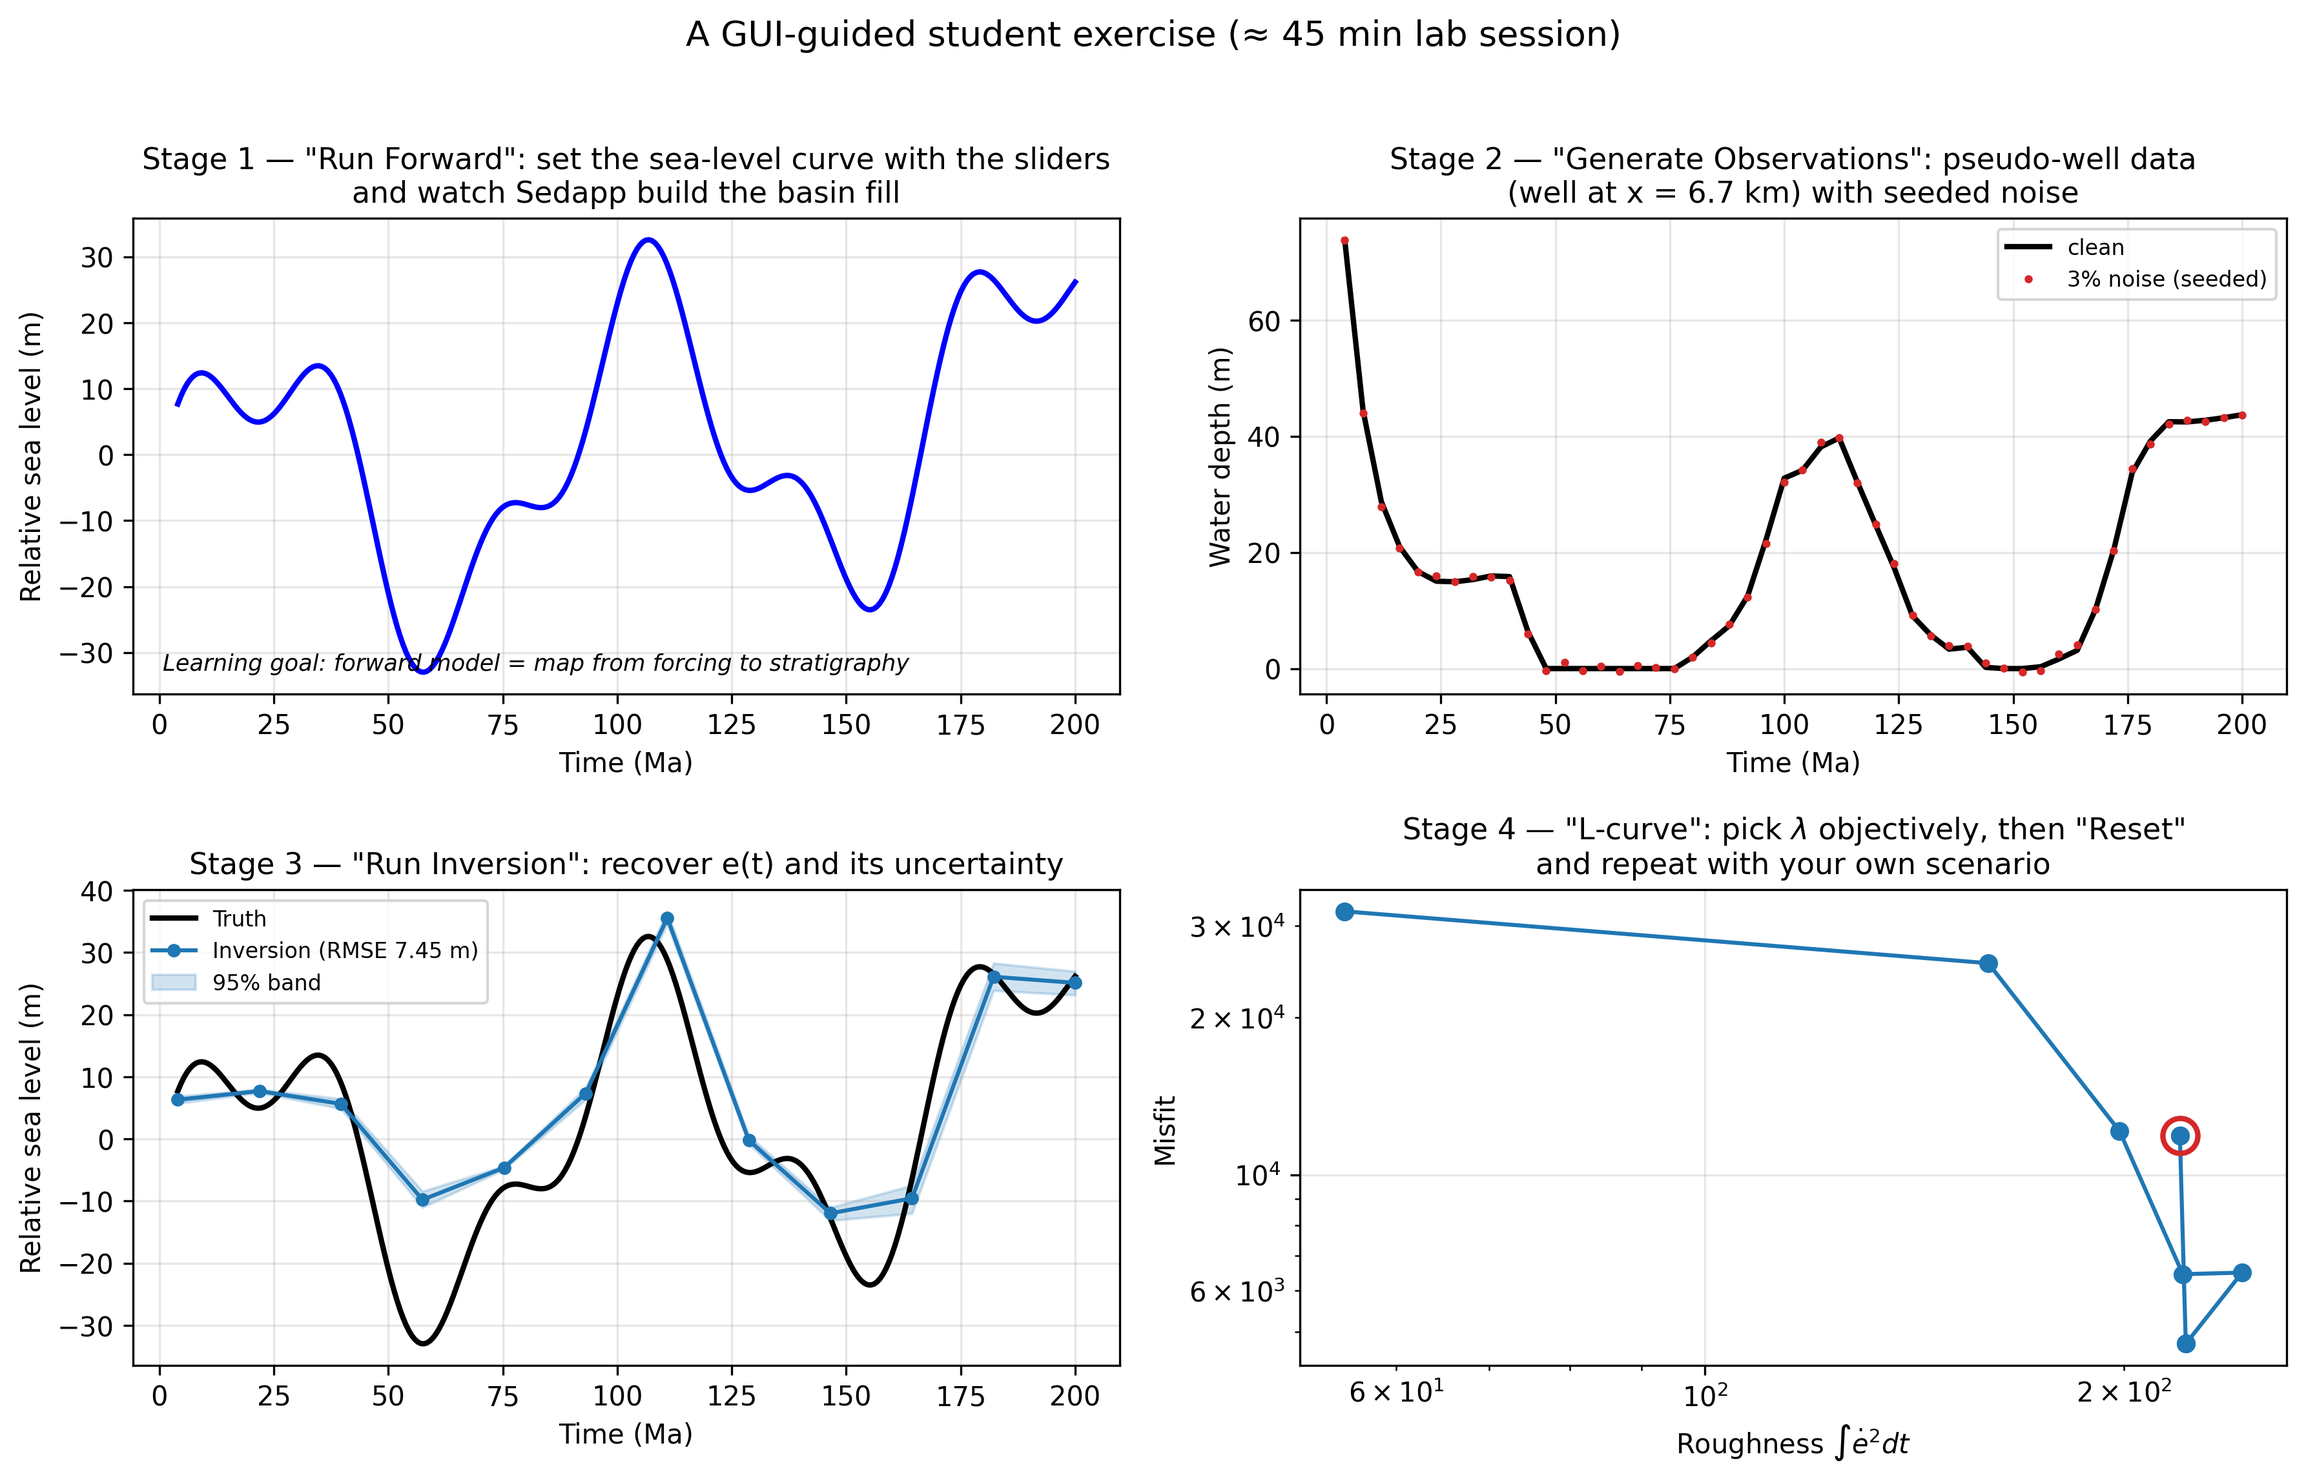
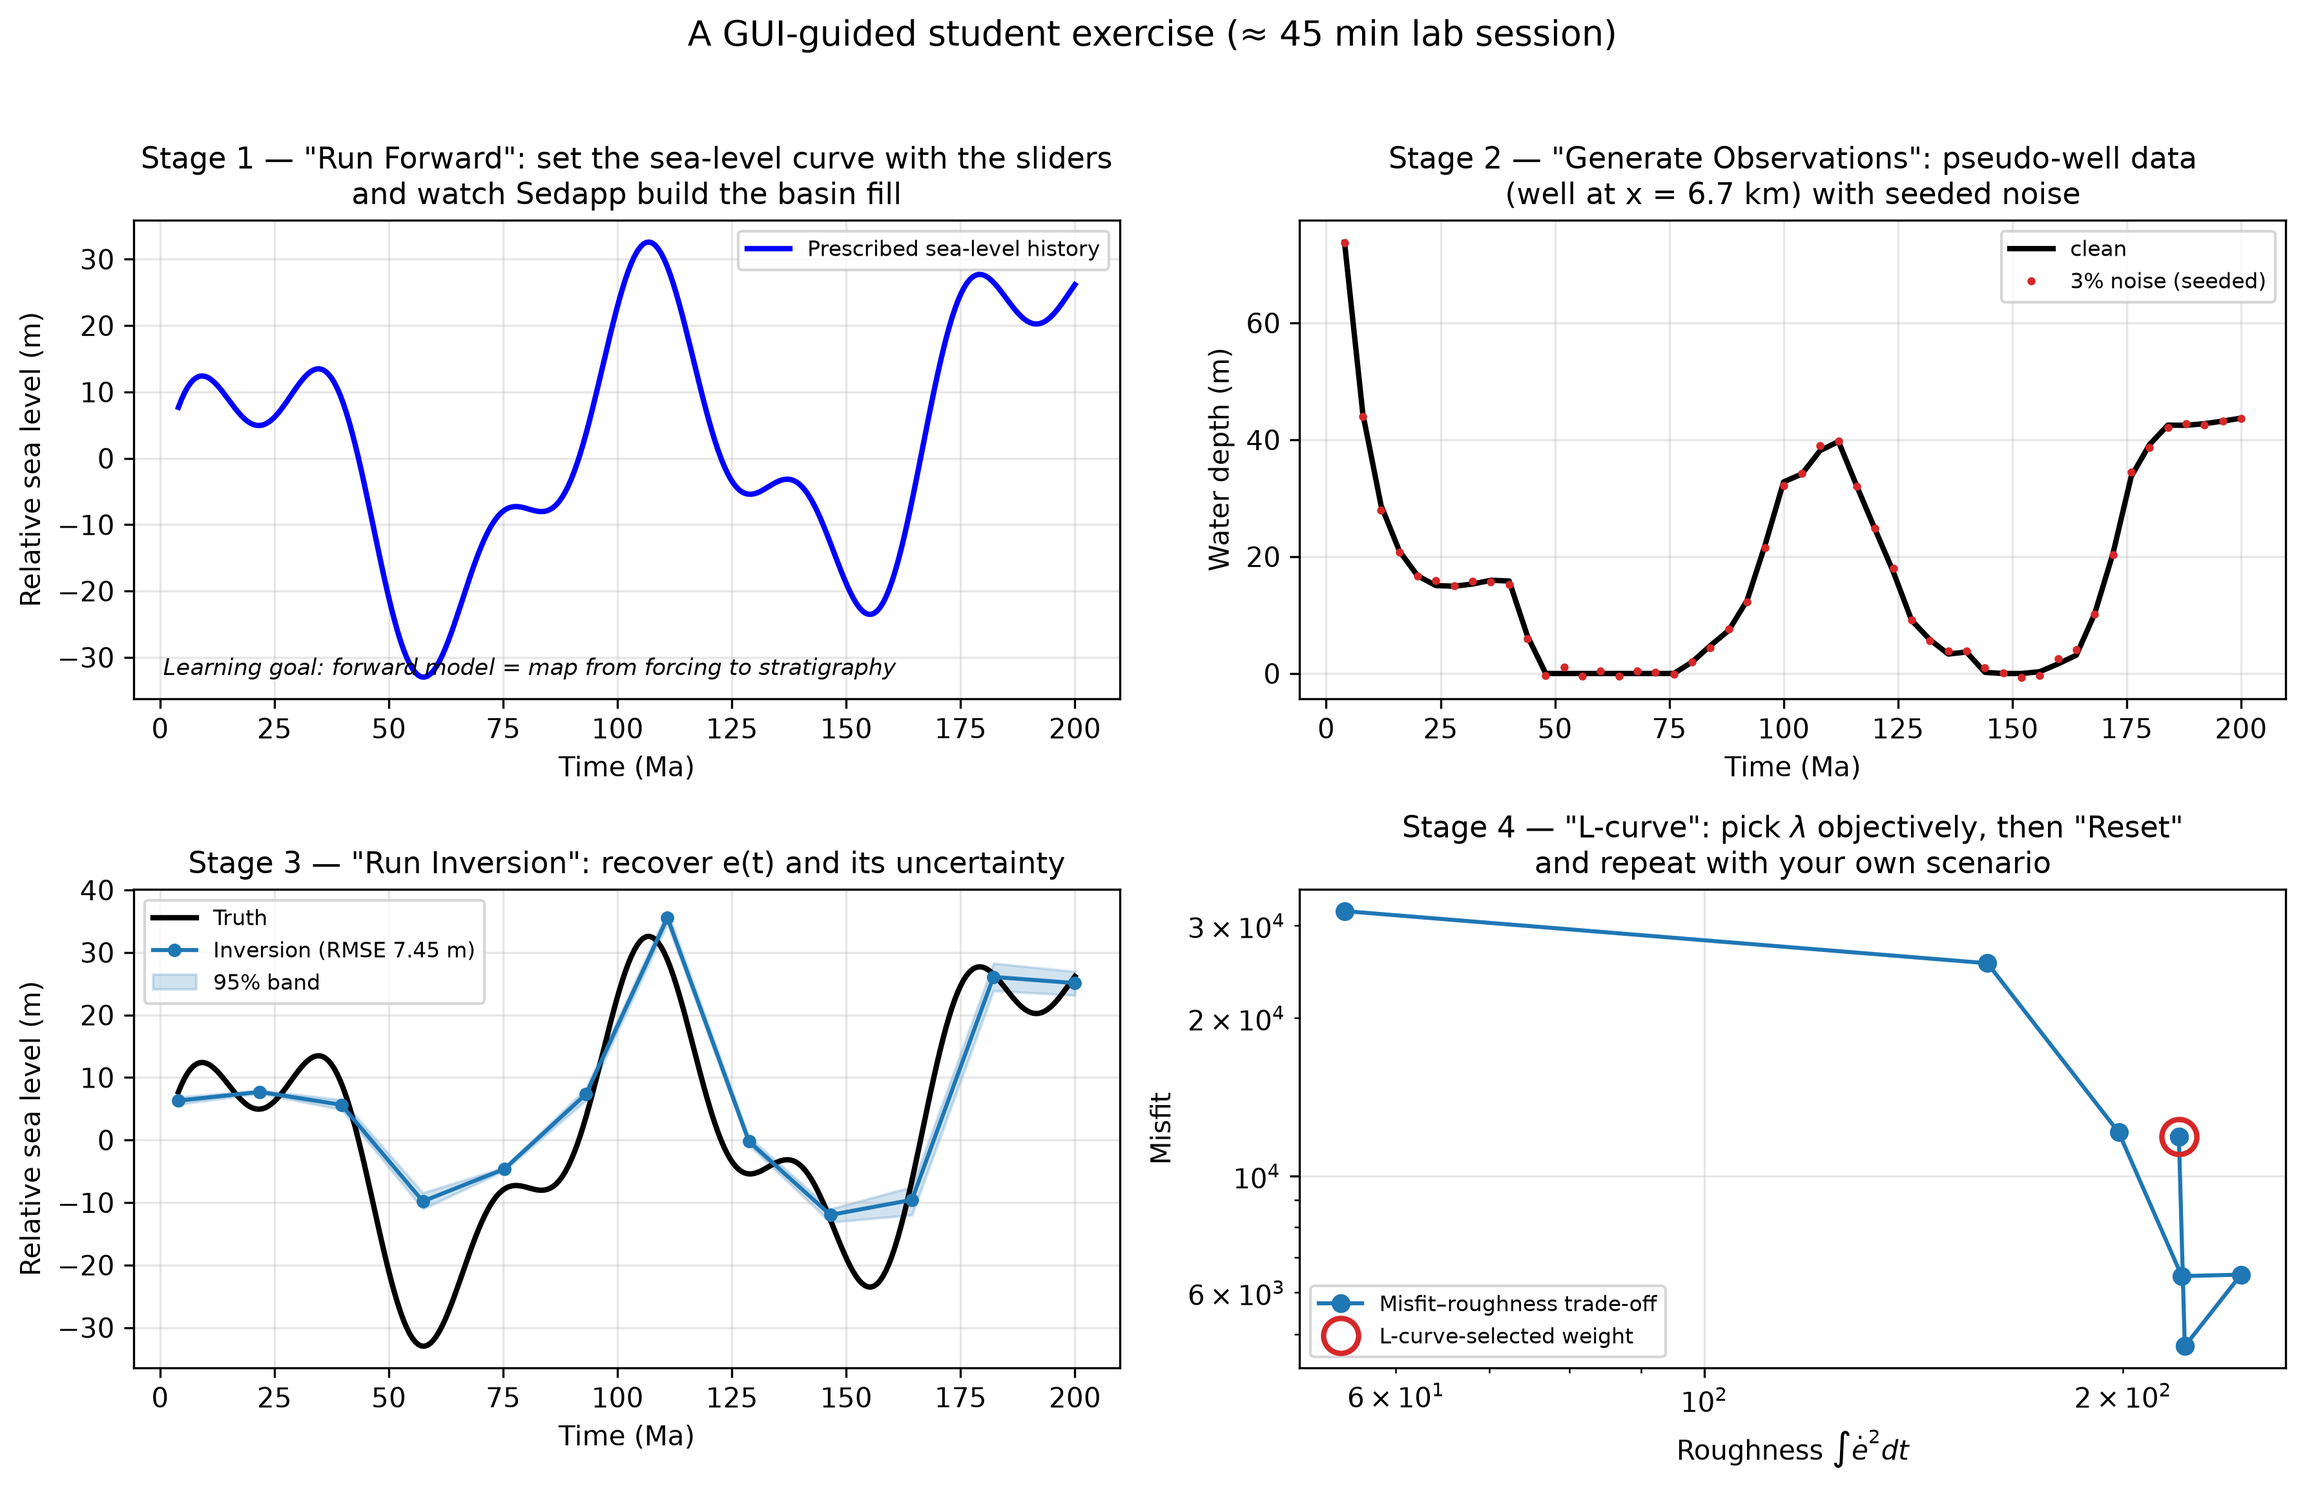
Apply approved editorial figure formatting and legend updates

diff --git a/zonghe.py b/zonghe.py
@@ -1111,6 +1111,8 @@ def fig4_variational(R):
     """J landscape over two knot values with the Gauss-Newton path overlaid,
     plus the misfit-vs-regularisation trade-off measured from the lambda
     sweep."""
+    from matplotlib.ticker import FuncFormatter
+
     jl = R['jlandscape']
     GI, GJ = np.meshgrid(jl['grid_i'], jl['grid_j'], indexing='ij')
     it = R['iterates']
@@ -1122,7 +1124,9 @@ def fig4_variational(R):
     cs = ax.contourf(GI, GJ, jl['J'], levels=lv, cmap='viridis')
     ax.contour(GI, GJ, jl['J'], levels=lv[::4], colors='w', linewidths=0.4,
                alpha=0.6)
-    plt.colorbar(cs, ax=ax, label='Objective $J$')
+    plt.colorbar(cs, ax=ax, label='Objective $J$',
+                 format=FuncFormatter(lambda value, pos:
+                     f'{value:,.0f}' if abs(value) >= 10000 else f'{value:.0f}'))
     ik, jk = jl['i_knot'], jl['j_knot']
     ax.plot(it[:, ik], it[:, jk], 'o-', color='tab:red', ms=4, lw=1.5,
             label='Gauss-Newton path', zorder=5)
@@ -1158,6 +1162,8 @@ def fig4_variational(R):
 def fig5_iterations(R):
     """Iterations 0, 2, 5, 10, final: sea-level curve evolution with a
     J-decrease inset — what a student watches converge in the GUI."""
+    from matplotlib.ticker import FuncFormatter, NullFormatter
+
     it = R['iterates']
     hist = R['iter_hist']
     calls = hist[:, 0] - hist[0, 0] + 1   # forward calls spent in this inversion
@@ -1172,15 +1178,23 @@ def fig5_iterations(R):
                 label=f'iteration {ip}')
         ax.set_title(f'iteration {ip}', fontsize=10)
         ax.set_xlabel('Time (Ma)')
+        ax.yaxis.set_major_formatter(FuncFormatter(
+            lambda value, pos: f'{value:g}'.replace('-', '−')))
         if ax is axs[0]:
             ax.set_ylabel('Relative sea level (m)')
         # J-decrease inset
         axin = ax.inset_axes([0.52, 0.55, 0.44, 0.40])
         axin.semilogy(calls, hist[:, 1], 'o-', ms=2.5, lw=1,
                       color='tab:blue')
-        axin.axvline(calls[min(ip, len(hist) - 1)], color='tab:red', lw=1)
+        red_line = axin.axvline(calls[min(ip, len(hist) - 1)], color='tab:red', lw=1)
+        if ax is axs[0]:
+            fig.legend(handles=[red_line],
+                       labels=['Cumulative forward calls at the displayed iteration'],
+                       loc='upper center', bbox_to_anchor=(0.5, 0.88),
+                       fontsize=8.5, frameon=False)
         axin.set_title('$J$ vs fwd calls', fontsize=6.5)
         axin.tick_params(labelsize=6)
+        axin.yaxis.set_minor_formatter(NullFormatter())
         axin.grid(alpha=0.3)
     axs[0].legend(fontsize=8, loc='upper right')
     fig.suptitle('Inversion step by step: the sea-level curve converges while '
@@ -1242,58 +1256,87 @@ def fig6_noise(R):
 
 # ── fig7: effect of lambda + L-curve ────────────────────────────────────────
 def fig7_lambda(R):
-    """Under- and over-regularised examples plus the L-curve used to pick
-    lambda objectively."""
+    """Plot the unchanged lambda sweep with readable labels and legends."""
+    from matplotlib.ticker import FuncFormatter, LogFormatterSciNotation
+
+    def weight(v):
+        if v and abs(v) < 0.001:
+            n = int(np.floor(np.log10(abs(v))))
+            return rf'$\mathdefault{{{v / 10.0**n:g}\times10^{{{n}}}}}$'
+        return f'{v:g}'
+
     lr = R['lam_results']
     lam = R['best_lam']
     kt = knot_times()
     td, ed = dense_truth()
-    fig, axs = plt.subplots(1, 3, figsize=(13.5, 4.0))
-
+    fig, axs = plt.subplots(1, 3, figsize=(13.5, 5.4))
     ax = axs[0]
     xs = np.array([roughness(lr[l]['e']) for l in LAMBDAS])
     ys = np.array([lr[l]['misfit'] for l in LAMBDAS])
-    ax.loglog(xs, ys, 'o-', color='tab:blue')
+    ax.loglog(xs, ys, 'o-', color='tab:blue',
+              label=r'$\lambda$ samples (line joins dots)')
+    positions = {1e-5: (.62, .68), 1e-4: (.87, .78), .001: (.65, .045),
+                 .01: (.87, .14), .1: (.89, .34), 1: (.61, .27), 10: (.55, .56)}
     for l, x, y in zip(LAMBDAS, xs, ys):
-        off = {0.1: (8, -2), 0.01: (8, 9), 0.001: (12, -9)}.get(l, (6, 5))
-        ax.annotate(f'{l:g}', (x, y), textcoords='offset points', xytext=off,
-                    fontsize=8)
+        if l in positions:
+            ax.annotate(weight(l), (x, y), xytext=positions[l],
+                        textcoords='axes fraction', ha='center', va='center',
+                        fontsize=8, arrowprops=dict(arrowstyle='-', color='0.45',
+                        lw=.65, shrinkA=3, shrinkB=5))
+        else:
+            ax.annotate(weight(l), (x, y), xytext=(7, -12) if l == 1000 else (6, 5),
+                        textcoords='offset points', fontsize=8)
     iB = LAMBDAS.index(lam)
-    ax.plot(xs[iB], ys[iB], 'o', ms=13, mfc='none', mec='tab:red', mew=2)
+    ax.plot(xs[iB], ys[iB], 'o', ms=13, mfc='none', mec='tab:red', mew=2,
+            label='L-curve choice (red circle)')
     ax.set_xlabel(r'Roughness $\int \dot e^2 dt$  (m$^2$/Ma)')
     ax.set_ylabel(r'Misfit $\frac{1}{2}\|(F-d)/\sigma\|^2$')
-    ax.set_title(f'(a) L-curve — knee at $\\lambda$={lam:g}')
+    ax.set_title('(a) L-curve — knee at ' + r'$\lambda$=' + weight(lam))
+    ax.legend(loc='upper center', bbox_to_anchor=(.5, -.23), fontsize=7.7,
+              frameon=False)
 
     ax = axs[1]
-    ax.plot(td, ed, 'k-', lw=2.2, label='Truth')
+    ax.plot(td, ed, 'k-', lw=2.2, label='Truth (black line)')
     iK = LAMBDAS.index(lam)
     picks = []
     if iK > 0:
         picks.append((LAMBDAS[max(0, iK - 1)], 'under-regularised'))
-    picks.append((lam, 'L-curve pick'))
-    picks.append((LAMBDAS[-1], 'over-regularised'))
+    picks.extend([(lam, 'L-curve pick'), (LAMBDAS[-1], 'over-regularised')])
     for (l, lab), c in zip(picks, ['tab:red', 'tab:blue', 'tab:green'][-len(picks):]):
-        ax.plot(kt, lr[l]['e'], 'o-', color=c, ms=4, lw=1.6,
-                label=f'{lab} $\\lambda$={l:g} (RMSE {lr[l]["rmse"]:.1f} m)')
+        label = ('_nolegend_' if lab == 'under-regularised' else
+                 lab + r' $\lambda$=' + weight(l) + f' (RMSE {lr[l]["rmse"]:.1f} m)')
+        ax.plot(kt, lr[l]['e'], 'o-', color=c, ms=4, lw=1.6, label=label)
     ax.set_xlabel('Time (Ma)')
     ax.set_ylabel('Relative sea level (m)')
+    ax.yaxis.set_major_formatter(FuncFormatter(lambda v, pos: f'{v:g}'.replace('-', '−')))
     ax.set_title('(b) Under / optimal / over-regularised recoveries')
-    ax.legend(fontsize=8)
+    ax.legend(loc='upper center', bbox_to_anchor=(.5, -.23), fontsize=7.7,
+              frameon=False)
+    ax.text(.5, -.57, 'Coloured dots: control knots; lines: interpolated histories',
+            transform=ax.transAxes, ha='center', va='top', fontsize=7.4)
 
     ax = axs[2]
-    rmses = [lr[l]['rmse'] for l in LAMBDAS]
-    ax.semilogx(LAMBDAS, rmses, 'o-', color='tab:purple', lw=1.8)
-    ax.axvline(lam, color='tab:red', ls='--', lw=1.2)
+    ax.semilogx(LAMBDAS, [lr[l]['rmse'] for l in LAMBDAS], 'o-',
+                color='tab:purple', lw=1.8,
+                label=r'RMSE at sampled $\lambda$ (line joins dots)')
+    ax.axvline(lam, color='tab:red', ls='--', lw=1.2,
+               label=r'L-curve choice $\lambda$=' + weight(lam))
     ax.axvline(R['lam_minrmse'], color='tab:green', ls=':', lw=1.2,
-               label=f'min-RMSE $\\lambda$={R["lam_minrmse"]:g} (unknowable '
-               'in practice)')
-    ax.set_xlabel('$\\lambda$')
+               label=r'min-RMSE $\lambda$=' + weight(R['lam_minrmse']) +
+                     '\n(unknowable in practice)')
+    ax.set_xlabel(r'$\lambda$')
     ax.set_ylabel('Sea-level RMSE (m)')
-    ax.set_title('(c) Recovery error vs $\\lambda$')
-    ax.legend(fontsize=8)
+    ax.set_title(r'(c) Recovery error vs $\lambda$')
+    ax.legend(loc='upper center', bbox_to_anchor=(.5, -.23), fontsize=7.7,
+              frameon=False)
+    for ax in (axs[0], axs[2]):
+        ax.xaxis.set_major_formatter(LogFormatterSciNotation())
+        ax.xaxis.set_minor_formatter(LogFormatterSciNotation())
+    axs[0].yaxis.set_major_formatter(LogFormatterSciNotation())
+    axs[0].yaxis.set_minor_formatter(LogFormatterSciNotation())
     fig.suptitle('Choosing the regularisation weight: the L-curve criterion',
                  fontsize=12.5)
-    fig.tight_layout(rect=[0, 0, 1, 0.93])
+    fig.subplots_adjust(left=.07, right=.99, bottom=.34, top=.82, wspace=.40)
     savefig(fig, 'fig7_lambda_lcurve.png')
 
 
@@ -1316,7 +1359,8 @@ def fig8_tikhonov_vs_tv(R):
     ax.plot(kt, st['e_tv'], 's-', color='tab:orange', ms=4, lw=1.6,
             label=f'TV / IRLS (RMSE {st["rmse_tv"]:.2f} m, '
             f'r={st["r_tv"]:.3f})')
-    ax.axvline(T1 / 2, color='grey', ls=':', lw=1)
+    ax.axvline(T1 / 2, color='grey', ls=':', lw=1,
+               label=f'Sea-level step at {T1 / 2:g} Ma')
     ax.set_xlabel('Time (Ma)')
     ax.set_ylabel('Relative sea level (m)')
     ax.set_title('(a) Recovering an abrupt step from only 2 pseudo-wells\n'
@@ -1419,7 +1463,8 @@ def fig10_exercise(R):
     fig, axs = plt.subplots(2, 2, figsize=(12.0, 7.8))
 
     ax = axs[0, 0]
-    ax.plot(td, ed, 'b-', lw=2)
+    ax.plot(td, ed, 'b-', lw=2, label='Prescribed sea-level history')
+    ax.legend(fontsize=8, loc='upper right')
     ax.set_xlabel('Time (Ma)')
     ax.set_ylabel('Relative sea level (m)')
     ax.set_title('Stage 1 — "Run Forward": set the sea-level curve with the '
@@ -1460,9 +1505,12 @@ def fig10_exercise(R):
     lr = R['lam_results']
     xs = np.array([roughness(lr[l]['e']) for l in LAMBDAS])
     ys = np.array([lr[l]['misfit'] for l in LAMBDAS])
-    ax.loglog(xs, ys, 'o-', color='tab:blue')
+    ax.loglog(xs, ys, 'o-', color='tab:blue',
+              label='Misfit–roughness trade-off')
     iB = LAMBDAS.index(R['best_lam'])
-    ax.plot(xs[iB], ys[iB], 'o', ms=13, mfc='none', mec='tab:red', mew=2)
+    ax.plot(xs[iB], ys[iB], 'o', ms=13, mfc='none', mec='tab:red', mew=2,
+            label='L-curve-selected weight')
+    ax.legend(fontsize=8, loc='lower left')
     ax.set_xlabel(r'Roughness $\int \dot e^2 dt$')
     ax.set_ylabel('Misfit')
     ax.set_title('Stage 4 — "L-curve": pick $\\lambda$ objectively, then '

diff --git a/FIGURE_DATA_MAP.md b/FIGURE_DATA_MAP.md
@@ -12,18 +12,18 @@ All figures are saved at 300 dpi (matplotlib, Agg) into `figures/`.
 
 | File | Generator (zonghe.py) | Line range* | Data sources (checkpoints) | Panels |
 |---|---|---|---|---|
-| fig1_architecture_gui.png | `fig1_architecture` | 860–987 | none (schematic of workflow + GUI widget tree) | 2 |
-| fig2_forward_demo.png | `fig2_forward_demo` | 988–1044 | `truth.npz` (sf, wd, z, shoreline), subsidence from `subsidence_rate_field` (280) | 5 |
-| fig3_nonuniqueness.png | `fig3_nonuniqueness` | 1045–1109 | `nonuniq_truth.npz`, `nonuniq_shifted.npz`, `nonuniq_rescaled.npz` via `run_nonuniqueness` (697) | 4 |
-| fig4_variational_principle.png | `fig4_variational` | 1110–1157 | `jlandscape.npz` (11×11 J grid), `iter_hist.npz` (GN path), `lam_*.npz` | 2 |
-| fig5_iteration_frames.png | `fig5_iterations` | 1158–1192 | `iter_hist.npz` (iterate vectors + J history) | 5 |
-| fig6_noise_levels.png | `fig6_noise` | 1193–1243 | `lam_<knee>.npz`, `noise_0.01.npz`, `noise_0.05.npz`, `noise_ensemble.npz` (3 seeds × 3 levels) | 3 |
-| fig7_lambda_lcurve.png | `fig7_lambda` | 1244–1300 | `lam_1e-05.npz` … `lam_1000.npz` (9-point λ sweep), knee from `lcurve_knee` (475) | 3 |
-| fig8_tikhonov_vs_tv_step.png | `fig8_tikhonov_vs_tv` | 1301–1356 | `step_truth.npz`, `step_tik.npz`, `step_tv.npz` via `run_step_experiment` (768); 25 m step truth, 2-well sparse data | 2 |
-| fig9_uncertainty.png | `fig9_uq` | 1357–1412 | `laplace.npz` (400 posterior samples, post_std), `lam_<knee>.npz` | 3 |
-| fig10_exercise_workflow.png | `fig10_exercise` | 1413–1468 | `truth.npz`, `lam_<knee>.npz`, `laplace.npz`, λ sweep | 4 |
+| fig1_architecture_gui.png | `fig1_architecture` | 860–984 | none (schematic of workflow + GUI widget tree) | 2 |
+| fig2_forward_demo.png | `fig2_forward_demo` | 988–1041 | `truth.npz` (sf, wd, z, shoreline), subsidence from `subsidence_rate_field` (280) | 5 |
+| fig3_nonuniqueness.png | `fig3_nonuniqueness` | 1045–1106 | `nonuniq_truth.npz`, `nonuniq_shifted.npz`, `nonuniq_rescaled.npz` via `run_nonuniqueness` (697) | 4 |
+| fig4_variational_principle.png | `fig4_variational` | 1110–1158 | `jlandscape.npz` (11×11 J grid), `iter_hist.npz` (GN path), `lam_*.npz` | 2 |
+| fig5_iteration_frames.png | `fig5_iterations` | 1162–1203 | `iter_hist.npz` (iterate vectors + J history) | 5 |
+| fig6_noise_levels.png | `fig6_noise` | 1207–1254 | `lam_<knee>.npz`, `noise_0.01.npz`, `noise_0.05.npz`, `noise_ensemble.npz` (3 seeds × 3 levels) | 3 |
+| fig7_lambda_lcurve.png | `fig7_lambda` | 1258–1340 | `lam_1e-05.npz` … `lam_1000.npz` (9-point λ sweep), knee from `lcurve_knee` (475) | 3 |
+| fig8_tikhonov_vs_tv_step.png | `fig8_tikhonov_vs_tv` | 1344–1397 | `step_truth.npz`, `step_tik.npz`, `step_tv.npz` via `run_step_experiment` (768); 25 m step truth, 2-well sparse data | 2 |
+| fig9_uncertainty.png | `fig9_uq` | 1401–1453 | `laplace.npz` (400 posterior samples, post_std), `lam_<knee>.npz` | 3 |
+| fig10_exercise_workflow.png | `fig10_exercise` | 1457–1521 | `truth.npz`, `lam_<knee>.npz`, `laplace.npz`, λ sweep | 4 |
 
-*Line ranges refer to `zonghe.py` as delivered (1823 lines); all figure
+*Line ranges refer to `zonghe.py` as delivered (1871 lines); all figure
 functions are orchestrated by `make_all_figures`.
 
 Supporting sections: forward wrapper `forward` (240), truth generator
